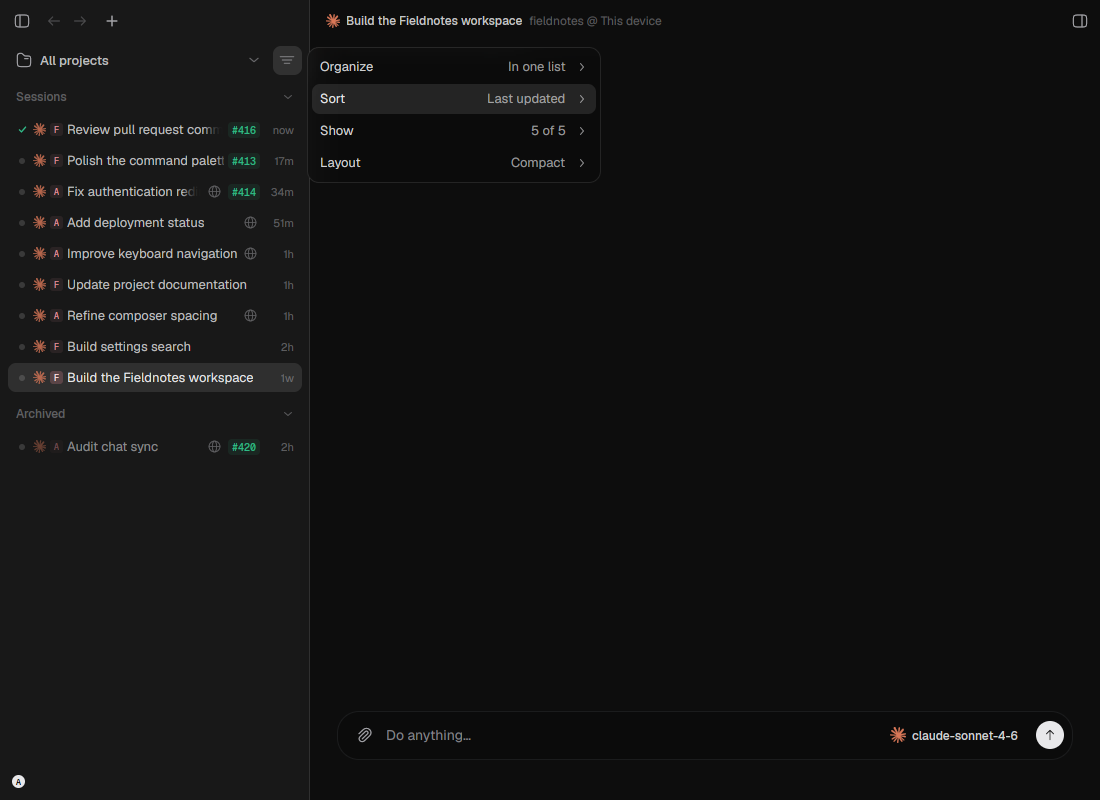
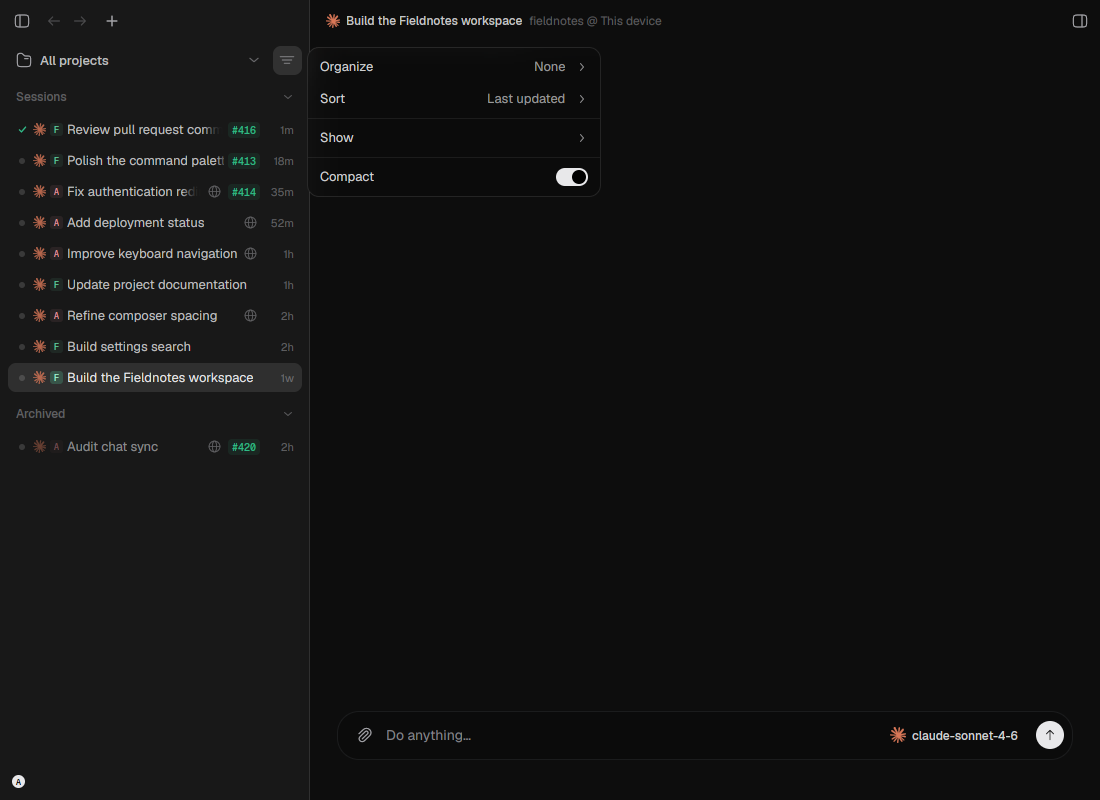
Separate sidebar Show options and use a Compact switch

Changed region(s): [[0.2473, 0.0625, 0.5564, 0.25], [0.0309, 0.4688, 0.0618, 0.5]]

diff --git a/crates/ui/src/shell/spaces.rs b/crates/ui/src/shell/spaces.rs
@@ -1900,14 +1900,10 @@ impl SidebarViewRow {
     }
 }
 
-const SIDEBAR_VIEW_GROUPS: [(&str, std::ops::Range<usize>); 4] = [
-    ("Organize", 0..3),
-    ("Sort", 3..5),
-    ("Show", 5..10),
-    ("Layout", 10..11),
-];
+const SIDEBAR_VIEW_GROUPS: [(&str, std::ops::Range<usize>); 3] =
+    [("Organize", 0..3), ("Sort", 3..5), ("Show", 5..10)];
 
-const SIDEBAR_VIEW_ROWS: [SidebarViewRow; 11] = [
+const SIDEBAR_VIEW_ROWS: [SidebarViewRow; 10] = [
     SidebarViewRow::ByDevice,
     SidebarViewRow::ByProject,
     SidebarViewRow::InOneList,
@@ -1918,7 +1914,6 @@ const SIDEBAR_VIEW_ROWS: [SidebarViewRow; 11] = [
     SidebarViewRow::ShowHarness,
     SidebarViewRow::ShowProjectIcon,
     SidebarViewRow::ShowProjectLabel,
-    SidebarViewRow::Compact,
 ];
 
 // list items stay tightly related at 2px, while section boundaries use 12px
@@ -3106,11 +3101,12 @@ impl Shell {
                         delta,
                     );
                 } else {
-                    menu.active = popover::menu_step(menu.active, SIDEBAR_VIEW_GROUPS.len(), delta);
+                    menu.active =
+                        popover::menu_step(menu.active, SIDEBAR_VIEW_GROUPS.len() + 1, delta);
                 }
                 cx.notify();
             }
-            "right" | "enter" => {
+            "right" | "enter" | "space" => {
                 if let Some(group) = menu.submenu {
                     if key == "enter" {
                         if let Some(choice) = menu.submenu_active {
@@ -3121,7 +3117,13 @@ impl Shell {
                     }
                 } else {
                     let group = menu.active.unwrap_or(0);
-                    self.open_sidebar_view_submenu(group, true, cx);
+                    if group == SIDEBAR_VIEW_GROUPS.len() {
+                        if key != "right" && !event.is_held {
+                            self.activate_sidebar_view_row(SidebarViewRow::Compact, cx);
+                        }
+                    } else if key != "space" {
+                        self.open_sidebar_view_submenu(group, true, cx);
+                    }
                 }
             }
             _ => return,
@@ -3148,7 +3150,7 @@ impl Shell {
         let labels = [
             "By device",
             "By project",
-            "In one list",
+            "None",
             "Last updated",
             "Created",
             "Branch",
@@ -3156,7 +3158,6 @@ impl Shell {
             "Harness",
             "Project icon",
             "Location",
-            "Compact mode",
         ];
         let icons = [
             icons::LAPTOP,
@@ -3169,7 +3170,6 @@ impl Shell {
             icons::BOT,
             icons::PROJECT_DEFAULT,
             icons::FOLDER,
-            icons::LIST,
         ];
         let selected = [
             organization == SidebarOrganization::ByDevice,
@@ -3182,21 +3182,16 @@ impl Shell {
             show_harness,
             self.settings.sidebar_show_project_icon,
             self.settings.sidebar_show_project_label,
-            self.settings.sidebar_compact,
         ];
         let values = [
             labels[selected[..3].iter().position(|v| *v).unwrap_or(0)].to_string(),
             labels[3 + selected[3..5].iter().position(|v| *v).unwrap_or(0)].to_string(),
-            format!("{} of 5", selected[5..10].iter().filter(|v| **v).count()),
-            if self.settings.sidebar_compact {
-                "Compact"
-            } else {
-                "Expanded"
-            }
-            .to_string(),
         ];
-        let mut groups = Vec::new();
+        let mut groups: Vec<AnyElement> = Vec::new();
         for (group, (label, range)) in SIDEBAR_VIEW_GROUPS.iter().enumerate() {
+            if group == 2 {
+                groups.push(popover::menu_separator().into_any_element());
+            }
             let open = submenu == Some(group);
             let entity = cx.entity().downgrade();
             let mut trigger = popover::menu_row_nav(
@@ -3227,11 +3222,13 @@ impl Shell {
                 cx.stop_propagation();
             }))
             .child(div().flex_1().child(*label))
-            .child(
-                div()
-                    .text_color(theme.text_muted)
-                    .child(values[group].clone()),
-            )
+            .when(group < values.len(), |el| {
+                el.child(
+                    div()
+                        .text_color(theme.text_muted)
+                        .child(values[group].clone()),
+                )
+            })
             .child(
                 icon(icons::ALT_ARROW_RIGHT)
                     .size(px(12.0))
@@ -3341,9 +3338,44 @@ impl Shell {
                             }));
                         }
                     }))
-                    .child(trigger),
+                    .child(trigger)
+                    .into_any_element(),
             );
         }
+        groups.push(popover::menu_separator().into_any_element());
+        groups.push(
+            popover::menu_row_nav(
+                theme,
+                false,
+                active == Some(SIDEBAR_VIEW_GROUPS.len()),
+                "sidebar-view-compact",
+            )
+            .id("sidebar-view-compact")
+            .h(px(30.0))
+            .py(px(0.0))
+            .on_mouse_move(cx.listener(|this, _, _, cx| {
+                if let Some(menu) = this.sidebar_view_menu.open_mut() {
+                    if menu.submenu.is_some() || menu.active != Some(SIDEBAR_VIEW_GROUPS.len()) {
+                        menu.hover_task = None;
+                        menu.submenu = None;
+                        menu.submenu_active = None;
+                        menu.submenu_bounds = None;
+                        menu.active = Some(SIDEBAR_VIEW_GROUPS.len());
+                        cx.notify();
+                    }
+                }
+            }))
+            .on_click(cx.listener(|this, _, _, cx| {
+                this.activate_sidebar_view_row(SidebarViewRow::Compact, cx);
+                cx.stop_propagation();
+            }))
+            .child(div().flex_1().child("Compact"))
+            .child(crate::settings::widgets::toggle_switch(
+                theme,
+                self.settings.sidebar_compact,
+            ))
+            .into_any_element(),
+        );
         popover::popover_card(theme)
             .w(px(self.settings.sidebar_width - 2.0 * Theme::SPACE_SM))
             .track_focus(&focus)

diff --git a/docs/screenshots/sidebar-view-menu/README.md b/docs/screenshots/sidebar-view-menu/README.md
@@ -1,10 +1,13 @@
 Native sidebar fixture screenshots with synthetic sessions and account data.
 
-Organize, Sort, Show, and Layout open nested menus using the same popup component
-as the model selector. The parent summarizes current choices. Radio choices close
-the child; Show and Compact toggles stay open for repeated changes.
+Organize, Sort, and Show open nested menus using the same popup component
+as the model selector. Organize and Sort summarize their current choices; the
+ungrouped choice is named None. Show has its own section without a count, and
+Compact has a separate section with a switch. Radio choices close the child;
+Show and Compact toggles stay open for repeated changes.
 
 Validation: native fixture build, changed-file formatting, and diff checks passed.
 Native X11 interaction checks covered hover traversal, repeated Show toggles,
-arrow-key navigation and sort selection, Escape, and outside-click dismissal.
+arrow-key navigation and sort selection, Compact click/Space toggling, Escape,
+and outside-click dismissal.
 A narrow-window check confirmed the child switches to the left when needed.
